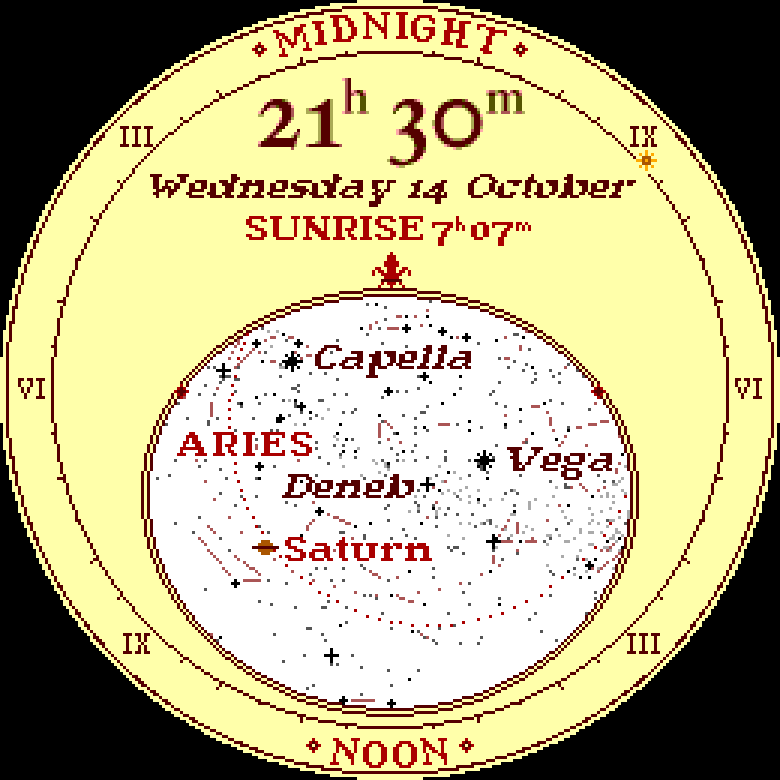
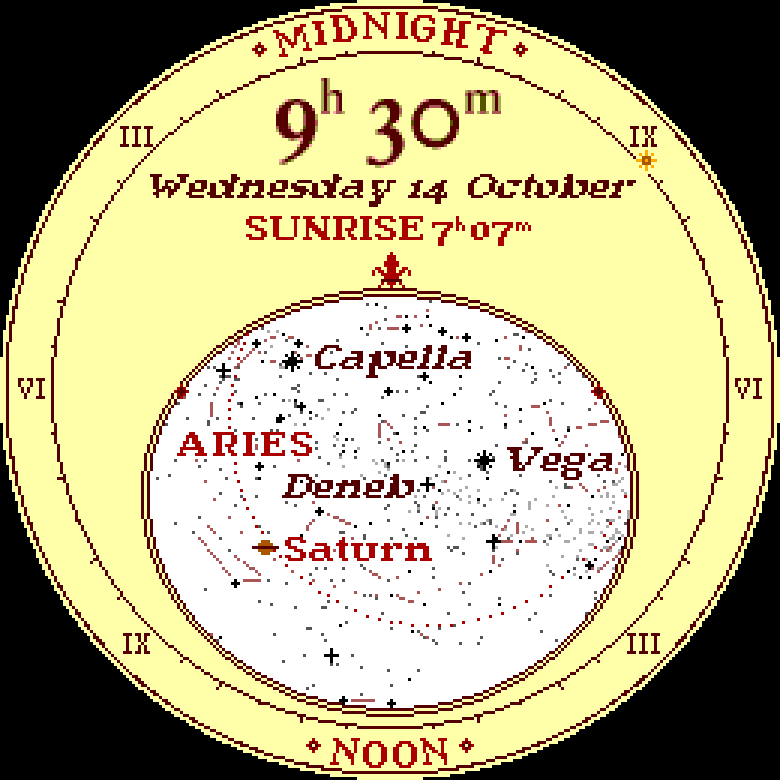
Crescent Moons, and a 24-hour clock option
The Moon is redrawn by hand in its phases across the month: new, a thin
crescent, a crescent, the quarter, gibbous, nearly full, full, and their
mirrors as it wanes. The terminator curves as on the real Moon, so a
crescent's inner edge bows with the limb and its horns thin to points. The
lit face now reaches the limb, so by day the crescent stands alone. Before,
the crescent was a straight-edged bar. Each drawing is picked by the
fraction of the face lit.

The 12-hour clock stays the default: the ring's III, VI and IX come round
twice with MIDNIGHT and NOON, and the time reads 9ʰ 30ᵐ. The new clock24
option figures the ring through the day (3, 6, 9, 15, 18, 21, in
hand-drawn figures) and reads 21ʰ 30ᵐ. The plain plates' ring uses the
same figures. docs/clock-12-24.png shows both clocks on both watches.

Changed region(s): [[0.3385, 0.0923, 0.6769, 0.2154]]

diff --git a/proto/sprites.py b/proto/sprites.py
@@ -83,37 +83,111 @@ LITTLE_SUN = art([               # the Sun's pointer on the ring: a disc and eig
     "...Y...",
 ])
 
-# ---- the Moon in eight phases, lit side to the right while it waxes ----------------------------
-# W the lit face, K the outline and the engraver's hatching on the dark part, M the dark ground
-_MOON_LIT = {                    # per row (y -4..4) the leftmost lit x of the inside (x -4..4), by phase
-    1: [3, 3, 2, 2, 2, 2, 2, 3, 3],          # a crescent
-    2: [0, 0, 0, 0, 0, 0, 0, 0, 0],          # first quarter
-    3: [-2, -3, -3, -3, -3, -3, -3, -3, -2],  # gibbous
+# ---- the Moon in its phases, drawn waxing (lit on the right); waning is the mirror -----------------------
+# W the lit face, reaching the limb; K the limb on the dark side; d the dark face, hatched by the engraver
+# (every other pixel). The terminator curves as it does on the real Moon: a crescent's inner edge bows the
+# same way as the limb, so the horns thin to points; a gibbous Moon's bows the other way.
+MOON_PHASES = {
+    "new": ["...KKKKK...",
+            "..KdddddK..",
+            ".KdddddddK.",
+            "KdddddddddK",
+            "KdddddddddK",
+            "KdddddddddK",
+            "KdddddddddK",
+            "KdddddddddK",
+            ".KdddddddK.",
+            "..KdddddK..",
+            "...KKKKK..."],
+    "thin": ["...KKKKW...",     # a young crescent, a seventh lit
+             "..KdddddW..",
+             ".KdddddddW.",
+             "KddddddddWW",
+             "KddddddddWW",
+             "KddddddddWW",
+             "KddddddddWW",
+             "KddddddddWW",
+             ".KdddddddW.",
+             "..KdddddW..",
+             "...KKKKW..."],
+    "crescent": ["...KKKKW...",
+                 "..KddddWW..",
+                 ".KdddddWWW.",
+                 "KdddddddWWW",
+                 "KdddddddWWW",
+                 "KdddddddWWW",
+                 "KdddddddWWW",
+                 "KdddddddWWW",
+                 ".KdddddWWW.",
+                 "..KddddWW..",
+                 "...KKKKW..."],
+    "quarter": ["...KKKWW...",
+                "..KdddWWW..",
+                ".KddddWWWW.",
+                "KdddddWWWWW",
+                "KdddddWWWWW",
+                "KdddddWWWWW",
+                "KdddddWWWWW",
+                "KdddddWWWWW",
+                ".KddddWWWW.",
+                "..KdddWWW..",
+                "...KKKWW..."],
+    "gibbous": ["...KKWWW...",
+                "..KdWWWWW..",
+                ".KddWWWWWW.",
+                "KddWWWWWWWW",
+                "KddWWWWWWWW",
+                "KddWWWWWWWW",
+                "KddWWWWWWWW",
+                "KddWWWWWWWW",
+                ".KddWWWWWW.",
+                "..KdWWWWW..",
+                "...KKWWW..."],
+    "fat": ["...KWWWW...",       # nearly full: a sliver of dark on the left
+            "..KWWWWWW..",
+            ".KWWWWWWWW.",
+            "KdWWWWWWWWW",
+            "KdWWWWWWWWW",
+            "KdWWWWWWWWW",
+            "KdWWWWWWWWW",
+            "KdWWWWWWWWW",
+            ".KWWWWWWWW.",
+            "..KWWWWWW..",
+            "...KWWWW..."],
+    "full": ["...WWWWW...",
+             "..WWWWWWW..",
+             ".WWWWWWWWW.",
+             "WWWWWWWWWWW",
+             "WWWWWWWWWWW",
+             "WWWWWWWWWWW",
+             "WWWWWWWWWWW",
+             "WWWWWWWWWWW",
+             ".WWWWWWWWW.",
+             "..WWWWWWW..",
+             "...WWWWW..."],
 }
+# which drawing for how much of the face is lit (its illuminated fraction), up to each bound
+_MOON_BY_LIGHT = [(0.04, "new"), (0.22, "thin"), (0.40, "crescent"), (0.60, "quarter"), (0.78, "gibbous"),
+                  (0.96, "fat"), (1.01, "full")]
 
 
-def moon(phase):
-    """phase 0 new, 1 crescent, 2 first quarter, 3 gibbous, 4 full, 5..7 waning (the mirror of 3..1)."""
-    waning = phase > 4
-    p = 8 - phase if waning else phase
-    a = np.zeros((11, 11), np.uint8)
-    c = 5
-    for x, y in _DISC:
-        a[c + y, c + x] = ROLE["K"]
-    inner = {-4: 2, -3: 3, -2: 4, -1: 4, 0: 4, 1: 4, 2: 4, 3: 3, 4: 2}
-    for y in range(-4, 5):
-        for x in range(-inner[y], inner[y] + 1):
-            if p == 4:
-                lit = True
-            elif p == 0:
-                lit = False
+def moon(name, waning=False):
+    """The Moon drawn in phase `name` (MOON_PHASES), lit on the right; waning, the mirror (lit on the left)."""
+    rows = MOON_PHASES[name]
+    a = np.zeros((len(rows), len(rows[0])), np.uint8)
+    for y, r in enumerate(rows):
+        for x, ch in enumerate(r):
+            if ch == "d":
+                a[y, x] = ROLE["K"] if (x + y) % 2 == 0 else ROLE["M"]
             else:
-                lit = x >= _MOON_LIT[p][y + 4]
-            if lit:
-                a[c + y, c + x] = ROLE["W"]
-            else:
-                a[c + y, c + x] = ROLE["K"] if (x + y) % 2 == 0 else ROLE["M"]
+                a[y, x] = ROLE[ch]
     return a[:, ::-1] if waning else a
+
+
+def moon_for(lit, waxing):
+    """The drawing for a Moon with fraction `lit` of its face lit, waxing or waning."""
+    name = next(n for bound, n in _MOON_BY_LIGHT if lit < bound)
+    return moon(name, waning=not waxing)
 
 
 # ---- stars, by brightness; and the planets' little pictures --------------------------------------
@@ -290,6 +364,32 @@ NUMERALS = {
 }
 
 
+# figures for the 24-hour ring (and the plain plates' ring), five pixels wide, drawn in the same thin stroke
+FIGURES = {
+    "0": [".###.", "#...#", "#...#", "#...#", "#...#", "#...#", ".###."],
+    "1": [".#.", "##.", ".#.", ".#.", ".#.", ".#.", "###"],
+    "2": [".###.", "#...#", "....#", "...#.", "..#..", ".#...", "#####"],
+    "3": [".###.", "#...#", "....#", "..##.", "....#", "#...#", ".###."],
+    "4": ["...#.", "..##.", ".#.#.", "#..#.", "#####", "...#.", "..###"],
+    "5": ["#####", "#....", "####.", "....#", "....#", "#...#", ".###."],
+    "6": ["..##.", ".#...", "#....", "####.", "#...#", "#...#", ".###."],
+    "7": ["#####", "#...#", "...#.", "..#..", "..#..", "..#..", "..#.."],
+    "8": [".###.", "#...#", "#...#", ".###.", "#...#", "#...#", ".###."],
+    "9": [".###.", "#...#", "#...#", ".####", "....#", "...#.", ".##.."],
+}
+
+
+def figures(text, gap=1):
+    glyphs = [np.array([[c == "#" for c in r] for r in FIGURES[ch]]) for ch in text]
+    W = sum(g.shape[1] for g in glyphs) + gap * (len(glyphs) - 1)
+    out = np.zeros((7, W), bool)
+    x = 0
+    for g in glyphs:
+        out[:, x: x + g.shape[1]] = g
+        x += g.shape[1] + gap
+    return out
+
+
 def numerals(text, gap=1):
     glyphs = [np.array([[c == "#" for c in r] for r in NUMERALS[ch]]) for ch in text]
     W = sum(g.shape[1] for g in glyphs) + gap * (len(glyphs) - 1)
@@ -395,16 +495,18 @@ if __name__ == "__main__":
     rows = [
         [block(sun_of_may(), gold, cream), block(LITTLE_SUN, gold, cream), block(FLEUR, gold, cream),
          block(LOZENGE, gold, cream), block(CORNER, gold, cream)]
-        + [mask_block(numerals(t), ink_, cream) for t in ("III", "VI", "IX")],
-        [block(moon(i), {1: (85, 85, 85), 5: (255, 255, 170), 6: None}, sky) for i in range(8)]
+        + [mask_block(numerals(t), ink_, cream) for t in ("III", "VI", "IX")]
+        + [mask_block(figures(t), ink_, cream) for t in ("3", "6", "9", "15", "18", "21")],
+        [block(moon(n, w), {1: (85, 85, 85), 5: (255, 255, 170), 6: None}, sky)
+         for n, w in [(n, False) for n in MOON_PHASES] + [(n, True) for n in list(MOON_PHASES)[-2:0:-1]]]
         + [block(st, {5: (255, 255, 255)}, sky) for st in STAR]
         + [block(PLANET[k], {1: (170, 85, 0), 2: (255, 85, 0), 3: (255, 170, 0), 4: (170, 85, 0), 5: (255, 255, 170),
                              7: (170, 170, 170)}, sky) for k in ("saturn", "jupiter", "mars", "venus", "mercury")],
         [mask_block(word_art(w, 200, 228)[0], red, cream) for w in ("MIDNIGHT", "NOON")],
         [mask_block(word_art(w, 260, 260)[0], red, cream) for w in ("MIDNIGHT", "NOON")],
     ]
-    labels = ["The Sun after the Sun of May, its pointer, the fleur-de-lis, lozenge, compass star, numerals",
-              "The Moon's eight phases, the stars by brightness, Saturn, Jupiter, Mars, Venus, Mercury",
+    labels = ["The Sun after the Sun of May, its pointer, the fleur-de-lis, lozenge, compass star, the ring's hours (12 and 24-hour)",
+              "The Moon through a month, the stars by brightness, Saturn, Jupiter, Mars, Venus, Mercury",
               "MIDNIGHT and NOON along the Time 2's ring", "MIDNIGHT and NOON along the Round 2's ring"]
     tiles = []
     for r, label in zip(rows, labels):

diff --git a/proto/plates.py b/proto/plates.py
@@ -12,8 +12,8 @@ the type of its time, the way Groundtrack's plates follow real charts:
   observatory   red light for eyes adapted to the dark (Old Standard)
   night         the first take: a black jacket, white type
 
-Each shows the time as astronomers write it, 21ʰ 30ᵐ, large in the jacket
-above the window, the date in italic, the Sun's next rising or setting in
+Each shows the time as almanacs and astronomers write it, 9ʰ 30ᵐ (21ʰ 30ᵐ on
+the 24-hour clock), large in the jacket above the window, the date in italic, the Sun's next rising or setting in
 small capitals, and names in the sky: constellations in spaced capitals,
 stars in italic, planets in small capitals.
 
@@ -270,7 +270,7 @@ def tick_pixels(dial, a_deg, length):
     return pts
 
 
-def render(when, dial, sky, tz, plate="planisphere", round_screen=True):
+def render(when, dial, sky, tz, plate="planisphere", round_screen=True, clock24=False):
     P = PLATES[plate]
     fn, fw = P["font"]
     fi, fiw = P["italic"]
@@ -402,16 +402,14 @@ def render(when, dial, sky, tz, plate="planisphere", round_screen=True):
         x, y = dial.project(*pos[pn], lst)
         sprites.paint(img, sprites.PLANET[pn], int(math.floor(x)), int(math.floor(y)), planet_c, where=inside)
 
-    # the Moon, drawn in its phase (lit side toward the Sun: right while it waxes)
+    # the Moon, drawn in its phase (lit side toward the Sun: right while it waxes); by day only its lit face
     mx, my = dial.project(*pos["moon"], lst)
     f = pos["moon_phase"]
-    ph = 0 if f < 0.04 else 1 if f < 0.35 else 2 if f < 0.65 else 3 if f < 0.96 else 4
-    if ph in (1, 2, 3) and not pos["moon_waxing"]:
-        ph = 8 - ph
     moon_cols = dict(moon_c)
-    if not dark and not paper:
-        moon_cols[1] = None if ph not in (0,) else moon_cols[1]
-    sprites.paint(img, sprites.moon(ph), int(math.floor(mx)), int(math.floor(my)), moon_cols, where=inside)
+    if not dark and not paper and f >= 0.04:
+        moon_cols[1] = None
+    sprites.paint(img, sprites.moon_for(f, pos["moon_waxing"]), int(math.floor(mx)), int(math.floor(my)), moon_cols,
+                  where=inside)
 
     # the Sun, with its face (after the Sun of May), by day; on a printed chart always
     sx, sy = dial.project(*pos["sun"], lst)
@@ -485,7 +483,13 @@ def render(when, dial, sky, tz, plate="planisphere", round_screen=True):
     img[rule_in] = P["ink"]
     img[rule_out] = P["ink"]
     words = {0: "MIDNIGHT", 12: "NOON"}
-    numerals = {3: "III", 6: "VI", 9: "IX", 15: "III", 18: "VI", 21: "IX"} if P["ring"] == "roman" else {h: None for h in range(3, 24, 3) if h != 12}
+    # the hours every three: on the 12-hour clock twelve and twelve (III, VI, IX each morning and evening, or
+    # figures on the plain plates); on the 24-hour clock, figures running on through the day
+    roman = P["ring"] == "roman" and not clock24
+    if roman:
+        numerals = {3: "III", 6: "VI", 9: "IX", 15: "III", 18: "VI", 21: "IX"}
+    else:
+        numerals = {h: str(h if clock24 else h % 12) for h in (3, 6, 9, 15, 18, 21)}
     ticks = set()
     for half in range(48):
         hour = half / 2
@@ -526,7 +530,7 @@ def render(when, dial, sky, tz, plate="planisphere", round_screen=True):
     room = clear_distance(held)
     for hr, text in numerals.items():
         a = (hr - 12) * 15
-        m = sprites.numerals(text) if text else pixel_text(str(hr))
+        m = sprites.numerals(text) if roman else sprites.figures(text)
         x0_, y0_ = edge_point(dial, a)
         x1_, y1_ = track_point(dial, a, r_out + 1)
         best = None
@@ -576,7 +580,8 @@ def render(when, dial, sky, tz, plate="planisphere", round_screen=True):
     top_of_window = fy0 - 1                            # above the fleur-de-lis
     span = top_of_window - ring_in
     big = 30 if W >= 240 else 26
-    ink(img, astro_time(str(local.hour), f"{local.minute:02d}", fn, big, fw, feats=("onum",)), dial.cx,
+    hour = (lambda h: h if clock24 else (h % 12 or 12))
+    ink(img, astro_time(str(hour(local.hour)), f"{local.minute:02d}", fn, big, fw, feats=("onum",)), dial.cx,
         ring_in + span * 0.36, P["ink"])
     days = ["Monday", "Tuesday", "Wednesday", "Thursday", "Friday", "Saturday", "Sunday"]
     months = ["January", "February", "March", "April", "May", "June", "July", "August", "September", "October", "November", "December"]
@@ -587,7 +592,7 @@ def render(when, dial, sky, tz, plate="planisphere", round_screen=True):
     kind, at = next_sun_event(when, dial.lat, dial.lon)
     if kind:
         t_ = at.astimezone(tz)
-        stamp(img, concat(pixel_text(kind), time_text(t_.hour, t_.minute), gap=3), dial.cx, ring_in + span * 0.90, P["accent"])
+        stamp(img, concat(pixel_text(kind), time_text(hour(t_.hour), t_.minute), gap=3), dial.cx, ring_in + span * 0.90, P["accent"])
     if round_screen:
         img[np.hypot(xx + 0.5 - dial.cx, yy + 0.5 - dial.cy) > W / 2] = 0
     return nearest(img)

diff --git a/proto/film_plates.py b/proto/film_plates.py
@@ -41,6 +41,16 @@ def main():
         im = Image.fromarray(render(t.astimezone(timezone.utc), t2, sky, NY, pl, False)).resize((400, 456), Image.NEAREST)
         sheet.paste(im, (i * 412 + 6, 4))
     sheet.save(ROOT / "docs" / "time2-plates.png")
+    # the 12-hour and 24-hour clocks side by side at 9:30 pm, on the Time 2 and the Round 2
+    shots = [(t2, False, False), (t2, False, True), (r2, True, False), (r2, True, True)]
+    sizes = [(400, 456) if not rnd else (456, 456) for _, rnd, _ in shots]
+    sheet = Image.new("RGB", (sum(w + 12 for w, _ in sizes), 464), (24, 24, 26))
+    x = 6
+    for (dial, rnd, c24), size in zip(shots, sizes):
+        im = Image.fromarray(render(night.astimezone(timezone.utc), dial, sky, NY, "planisphere", rnd, clock24=c24))
+        sheet.paste(im.resize(size, Image.NEAREST), (x, 4))
+        x += size[0] + 12
+    sheet.save(ROOT / "docs" / "clock-12-24.png")
     print(len(frames), "frames")
 
 

diff --git a/README.md b/README.md
@@ -4,7 +4,7 @@ A watch face prototype for the Pebble Round 2 and Time 2: the sky as it is right
 
 ## Plates
 
-Like Groundtrack's plates, each plate follows a real tradition of sky charts, set in the type of its time. Every plate sets the time the way astronomers write it, **21ʰ 30ᵐ**, large in the card above the window. The small type is pixel type, every letter in whole pixels: Not Jam Old Style (CC0), a pixel serif after the old Garalde faces, with star names leaning in an oblique cut from it a pixel at a time. Under it are the date in italic and the Sun's next rising or setting in small capitals. The sky carries names the way the old atlases letter them: constellations in spaced capitals, stars in italic, planets in small capitals.
+Like Groundtrack's plates, each plate follows a real tradition of sky charts, set in the type of its time. Every plate sets the time in hours and minutes the way almanacs and astronomers write it, **9ʰ 30ᵐ**, large in the card above the window (or **21ʰ 30ᵐ** on the 24-hour clock, below). The small type is pixel type, every letter in whole pixels: Not Jam Old Style (CC0), a pixel serif after the old Garalde faces, with star names leaning in an oblique cut from it a pixel at a time. Under it are the date in italic and the Sun's next rising or setting in small capitals. The sky carries names the way the old atlases letter them: constellations in spaced capitals, stars in italic, planets in small capitals.
 
 ![A day on the Time 2, the paper planisphere plate, eight minutes a frame](docs/plate-planisphere-day-time2.gif)
 
@@ -33,6 +33,12 @@ The Time 2 comes first. Its ring is a cushion: arcs along the top and bottom, th
 ![Every plate on the Time 2 at 9:30 pm, then the paper planisphere at dusk and at noon](docs/time2-plates.png)
 
 By day the Sun in the window has a face and sixteen rays, straight and flaming in turn, after the Sun of May. A small rayed Sun points at the hour on the ring and passes behind the lettering, which stays whole.
+
+### The 12-hour or the 24-hour clock
+
+The ring counts the hours as old planispheres do, twelve and twelve: III, VI and IX in the morning and again in the evening, with MIDNIGHT and NOON between. The time reads 9ʰ 30ᵐ. The 24-hour clock is an option. With it the ring's figures run on through the day (3, 6, 9, 15, 18, 21), and the time reads 21ʰ 30ᵐ, as astronomers write it. On the watch the option starts from the watch's own 12 or 24-hour setting.
+
+![9:30 pm on the 12-hour and the 24-hour clock, on the Time 2 and the Round 2](docs/clock-12-24.png)
 
 ## Experimental: the compass, on a flick
 
@@ -87,11 +93,11 @@ Every image above is drawn at the watch's own size (260×260 round, 200×228) in
 The pieces are drawn by hand, pixel by pixel, not generated from shapes. Each is kept as text art in `proto/sprites.py`:
 
 - **The Sun** has a face and sixteen rays. One eighth of the rays is drawn and turned round the circle, so they are exactly symmetric.
-- **The Moon** has its eight phases, with the engraver's hatching on the dark part.
+- **The Moon** goes through its phases across the month. The terminator curves as on the real Moon, so a crescent thins to points at its horns. The dark part carries the engraver's hatching.
 - **The stars** are drawn by brightness: eight points, four, a cross, a point.
 - **The planets** each have a little picture: Saturn's ring, Jupiter's bands.
 - **The ornaments** are the fleur-de-lis standing on the window at the north, the lozenges, and the compass stars.
-- **The ring's numerals** are hand-drawn roman figures.
+- **The ring's hours** are hand-drawn too: roman numerals on the 12-hour clock, figures on the 24-hour clock.
 - **MIDNIGHT and NOON** are roman capitals with thick stems, thin hairlines and serifs. Each letter is drawn turned to its own place on each screen's ring, its stems stepping and its bars sloping as the curve turns.
 
 ![The hand-drawn pieces at six times and at their own size](docs/pieces.png)
